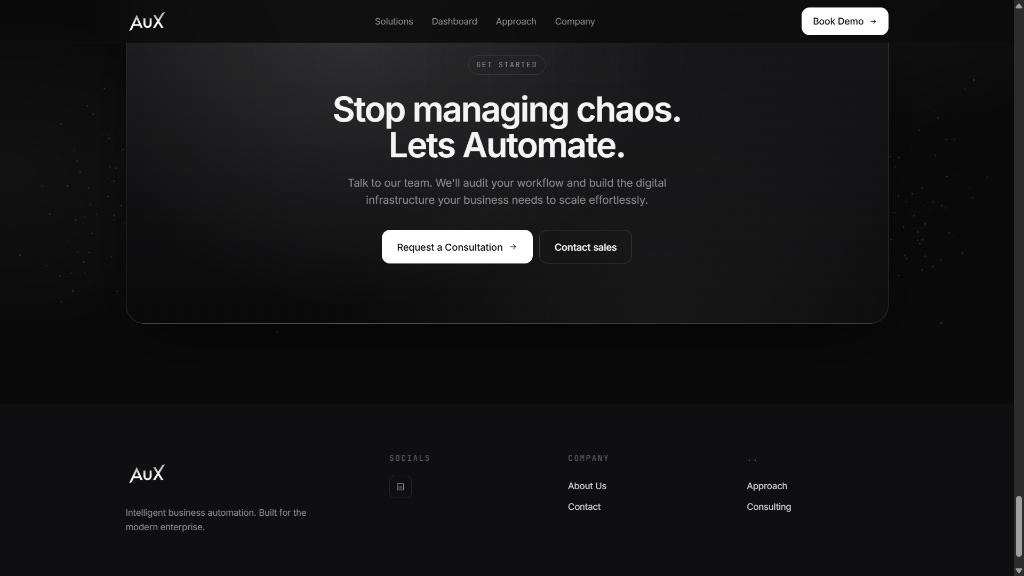
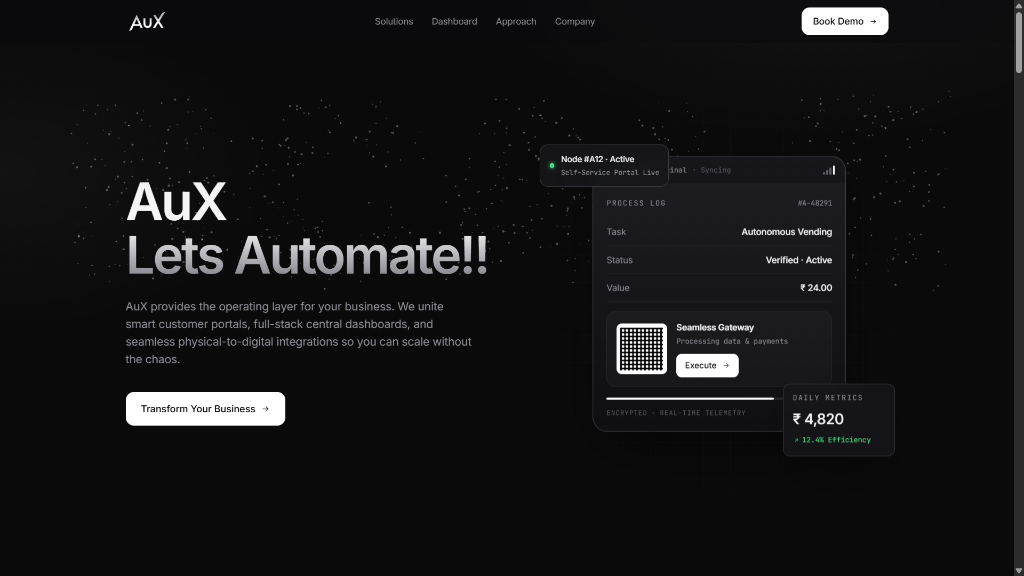
Update AuX section with 4 comprehensive slides: hero, problem breakdown, dashboard telemetry, and consultation CTA

diff --git a/portfolio-source/portfolio/index.html b/portfolio-source/portfolio/index.html
@@ -239,23 +239,25 @@
     <article class="project reverse reveal-up" data-project="4">
       <div class="project-media" data-slider>
         <div class="slides">
-          <img src="assets/auxweb-hero.png" alt="AuxWeb hero" loading="lazy" decoding="async" />
-          <img src="assets/auxweb-dashboard.png" alt="AuxWeb dashboard" loading="lazy" decoding="async" />
+          <img src="assets/auxweb-hero.png" alt="AuX hero — Lets Automate" loading="lazy" decoding="async" />
+          <img src="assets/auxweb-problem.png" alt="AuX problem breakdown" loading="lazy" decoding="async" />
+          <img src="assets/auxweb-dashboard.png" alt="AuX telemetry and node dashboard" loading="lazy" decoding="async" />
+          <img src="assets/auxweb-cta.png" alt="AuX consultation and workflow audit" loading="lazy" decoding="async" />
         </div>
-        <div class="slider-dots"><span class="active"></span><span></span></div>
+        <div class="slider-dots"><span class="active"></span><span></span><span></span><span></span></div>
         <div class="tilt-glow"></div>
       </div>
       <div class="project-info">
-        <div class="p-tag">Agency · Live Website</div>
-        <h3>AuxWeb — Smart Automation Solutions</h3>
+        <div class="p-tag">Agency · Live Platform</div>
+        <h3>AuX — Smart Automation Solutions</h3>
         <p>The operating layer for modern businesses. Smart customer portals,
           full-stack central dashboards and seamless physical-to-digital integrations
           so brands can scale without the chaos.</p>
         <ul class="p-features">
           <li>Dark, futuristic brand system</li>
           <li>Live dashboard with real-time telemetry</li>
-          <li>Multi-node workspace UX</li>
-          <li>Production deployment</li>
+          <li>Multi-node workspace & IoT gateway</li>
+          <li>Production deployment & audit funnel</li>
         </ul>
         <div class="p-stack">
           <span>React</span><span>Node.js</span><span>Tailwind</span><span>Automation</span>

diff --git a/portfolio-source/portfolio/portfolio.html b/portfolio-source/portfolio/portfolio.html
@@ -239,23 +239,25 @@
     <article class="project reverse reveal-up" data-project="4">
       <div class="project-media" data-slider>
         <div class="slides">
-          <img src="assets/auxweb-hero.png" alt="AuxWeb hero" loading="lazy" decoding="async" />
-          <img src="assets/auxweb-dashboard.png" alt="AuxWeb dashboard" loading="lazy" decoding="async" />
+          <img src="assets/auxweb-hero.png" alt="AuX hero — Lets Automate" loading="lazy" decoding="async" />
+          <img src="assets/auxweb-problem.png" alt="AuX problem breakdown" loading="lazy" decoding="async" />
+          <img src="assets/auxweb-dashboard.png" alt="AuX telemetry and node dashboard" loading="lazy" decoding="async" />
+          <img src="assets/auxweb-cta.png" alt="AuX consultation and workflow audit" loading="lazy" decoding="async" />
         </div>
-        <div class="slider-dots"><span class="active"></span><span></span></div>
+        <div class="slider-dots"><span class="active"></span><span></span><span></span><span></span></div>
         <div class="tilt-glow"></div>
       </div>
       <div class="project-info">
-        <div class="p-tag">Agency · Live Website</div>
-        <h3>AuxWeb — Smart Automation Solutions</h3>
+        <div class="p-tag">Agency · Live Platform</div>
+        <h3>AuX — Smart Automation Solutions</h3>
         <p>The operating layer for modern businesses. Smart customer portals,
           full-stack central dashboards and seamless physical-to-digital integrations
           so brands can scale without the chaos.</p>
         <ul class="p-features">
           <li>Dark, futuristic brand system</li>
           <li>Live dashboard with real-time telemetry</li>
-          <li>Multi-node workspace UX</li>
-          <li>Production deployment</li>
+          <li>Multi-node workspace & IoT gateway</li>
+          <li>Production deployment & audit funnel</li>
         </ul>
         <div class="p-stack">
           <span>React</span><span>Node.js</span><span>Tailwind</span><span>Automation</span>
